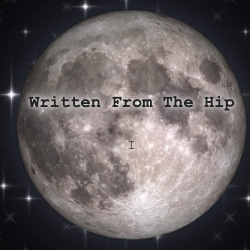
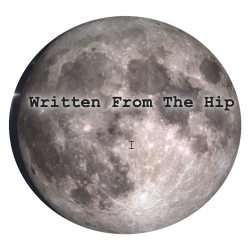
Center sign-off dash next to Denby n' Bolt photo, fix moon hover glow
- Move the "-" before the Denby n' Bolt photo into its own table cell,
  vertically centered against the photo instead of sitting above it
- Re-crop wfth-moon.png with a proper alpha-masked ellipse around the
  moon itself (previously a plain square crop), so the hover glow
  outlines just the moon and doesn't reveal the original photo's
  baked-in starfield corners

diff --git a/newsletter.html b/newsletter.html
@@ -103,13 +103,17 @@
 
                     <p style="margin:0 0 16px;">People ask. Why? It&rsquo;s because we can. And you, yes you, reading this right now, deserve a little five minute break from your stupid job to read some shit your boy wrote.</p>
 
-                    <p style="margin:0;">Domo Arigato,</p>
-                    <p style="margin:4px 0 12px;">&ndash;</p>
-                    <p align="center" style="margin:0; text-align:center;">
-                      <a href="https://writtenfromthehip.com/page.html?p=lineup" target="_blank">
-                        <img src="https://writtenfromthehip.com/assets/images/denby-n-bolt.png" width="340" height="167" alt="Denby n&rsquo; Bolt" class="wfth-planet glow-border-red" style="display:block; margin:0 auto; border:3px solid #ff3b3b; border-radius:8px; filter:drop-shadow(0 0 6px rgba(255,255,255,0.12));">
-                      </a>
-                    </p>
+                    <p style="margin:0 0 10px;">Domo Arigato,</p>
+                    <table role="presentation" cellpadding="0" cellspacing="0" border="0" style="margin:0 auto;">
+                      <tr>
+                        <td valign="middle" style="padding-right:10px; font-family:Verdana, Geneva, sans-serif; font-size:17px;" class="glow-yellow">&ndash;</td>
+                        <td valign="middle">
+                          <a href="https://writtenfromthehip.com/page.html?p=lineup" target="_blank">
+                            <img src="https://writtenfromthehip.com/assets/images/denby-n-bolt.png" width="340" height="167" alt="Denby n&rsquo; Bolt" class="wfth-planet glow-border-red" style="display:block; border:3px solid #ff3b3b; border-radius:8px; filter:drop-shadow(0 0 6px rgba(255,255,255,0.12));">
+                          </a>
+                        </td>
+                      </tr>
+                    </table>
 
                   </div>
                 </td>
